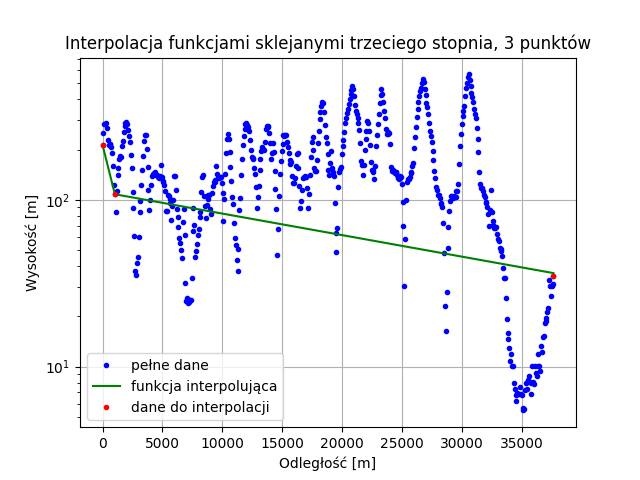
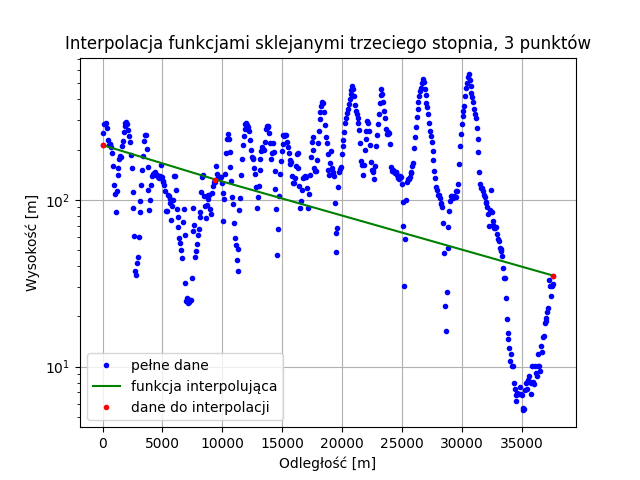
update methods

diff --git a/lagrange.py b/lagrange.py
@@ -4,9 +4,13 @@ import numpy as np
 
 
 def interpolation_function(points):
-    def f(x):
+    n = len(points)
+
+    def evaluate(x):
         result = 0
-        n = len(points)
+        first_x, last_x = points[0][0], points[-1][0]
+        if x < first_x or x > last_x:
+            return 0
         for i in range(n):
             xi, yi = points[i]
             base = 1
@@ -19,7 +23,7 @@ def interpolation_function(points):
             result += float(yi) * base
         return result
 
-    return f
+    return evaluate
 
 
 def interpolate_with_lagrange(points: int, path: str, save: bool = False, plot_function: bool = True, equal_separator: bool = True):
@@ -27,9 +31,10 @@ def interpolate_with_lagrange(points: int, path: str, save: bool = False, plot_f
         data = f.readlines()
     n = len(data)
     if equal_separator:
-        interpolation_indices = range(0, len(data), len(data) // points + 1)
+        interpolation_indices = [int(i * (n - 1) / (points - 1)) for i in range(points)]
     else:
-        interpolation_indices = [random.choice(range(1, n)) for _ in range(points)]
+        interpolation_indices = [random.choice(range(1, n - 1)) for _ in range(points - 2)]
+        interpolation_indices = [0] + sorted(interpolation_indices) + [n - 1]
     interpolation_data = [(float(data[i].split()[0]), float(data[i].split()[1])) for i in interpolation_indices]
 
     f = interpolation_function(interpolation_data)
@@ -43,18 +48,25 @@ def interpolate_with_lagrange(points: int, path: str, save: bool = False, plot_f
 
     true_height = np.array([float(y) for _, y in (line.split() for line in data)])
 
-    mse = np.mean((height - interpolated_height) ** 2)
+    # Obliczanie wysokości dla całego zakresu odległości
+    interpolated_distance = np.linspace(distance[0], distance[-1], num=1000)
+    interpolated_height = np.array([f(x) for x in interpolated_distance])
+
+    # Usuwanie punktów o zerowej wysokości z interpolowanych danych
+    mask = interpolated_height != 0
+    interpolated_distance = interpolated_distance[mask]
+    interpolated_height = interpolated_height[mask]
+
     filename = path.split('/')[-1].replace('.txt', '')
-    print(f"Lagrande {filename}-{points} MSE: {mse}")
     pyplot.semilogy(distance, height, 'b.', label='pełne dane')
     if plot_function:
-        pyplot.semilogy(distance, interpolated_height, color='green', label='funkcja interpolująca')
+        pyplot.semilogy(interpolated_distance, interpolated_height, color='green', label='funkcja interpolująca')
     pyplot.semilogy(train_distance, train_height, 'r.', label='dane do interpolacji')
 
     pyplot.legend()
     pyplot.ylabel('Wysokość [m]')
     pyplot.xlabel('Odległość [m]')
-    pyplot.title(f'Interpolacja Lagrange\'a dla {len(interpolation_data)} punktów\nMSE: {mse:.4f}')
+    pyplot.title(f'Interpolacja Lagrange\'a dla {len(interpolation_data)} punktów\n')
     pyplot.grid()
     if save:
         pyplot.savefig(f"charts/lagrange/{filename}-{points}-points.png")

diff --git a/spline.py b/spline.py
@@ -1,64 +1,33 @@
-import matplotlib.pyplot as plt
 import numpy as np
+import matplotlib.pyplot as plt
+from scipy.interpolate import interp1d
 
 
-def interpolate_with_spline(points, path, save=False, plot_function=True, equal_separator: bool = True):
+def interpolate_with_spline(points, path, save=False, plot_function=True, equal_separator=True):
     with open(path, 'r') as f:
         data = f.readlines()
 
     distance = np.array([float(x) for x, _ in (line.split() for line in data)])
     height = np.array([float(y) for _, y in (line.split() for line in data)])
 
-    n = len(distance)
-
-    h = np.diff(distance)
-
-    delta = np.diff(height)
-
-    matrix = np.zeros((n, n))
-    matrix[0, 0] = 1
-    matrix[n-1, n-1] = 1
-
-    for i in range(1, n-1):
-        matrix[i, i-1] = h[i-1]
-        matrix[i, i] = 2 * (h[i-1] + h[i])
-        matrix[i, i+1] = h[i]
-
-    vector = np.zeros(n)
-    vector[1:n-1] = 3 * (delta[1:] / h[1:] - delta[:-1] / h[:-1])
-
-    c = np.linalg.solve(matrix, vector)
-
-    a = height[:-1]
-    b = delta / h - h * c[:-1] / 3
-    d = (c[1:] - c[:-1]) / (3 * h)
-
     if equal_separator:
-        interp_indices = np.linspace(0, n-1, points, dtype=int)
+        interp_indices = np.linspace(0, len(distance) - 1, points, dtype=int)
     else:
-        interp_indices = np.sort(np.random.choice(range(1, n-1), points-2, replace=False))
-        interp_indices = np.concatenate(([0], interp_indices, [n-1]))
+        interp_indices = np.sort(np.random.choice(range(len(distance)), points-2, replace=False))
+        interp_indices = np.concatenate(([0], interp_indices, [len(distance)-1]))
 
     x_interp = distance[interp_indices]
-    y_interp = np.zeros_like(x_interp)
+    y_interp = height[interp_indices]
 
-    for i, x in enumerate(x_interp):
-        index = np.searchsorted(distance, x)
-        if index == 0:
-            index = 1
-        elif index == n:
-            index = n - 1
-
-        dx = x - distance[index-1]
-        y_interp[i] = a[index-1] + b[index-1] * dx + c[index-1] * dx**2 + d[index-1] * dx**3
+    f = interp1d(distance, height, kind='cubic')
+    y_smooth = f(x_interp)
 
     plt.semilogy(distance, height, 'b.', label='pełne dane')
     if plot_function:
-        plt.semilogy(x_interp, y_interp, color='green', label='funkcja interpolująca')
-
-    plt.semilogy(distance[interp_indices], height[interp_indices], 'r.', label='dane do interpolacji')
+        plt.semilogy(x_interp, y_smooth, color='green', label='funkcja interpolująca')
+    plt.semilogy(distance[interp_indices], y_interp, 'r.', label='dane do interpolacji')
     filename = path.split('/')[-1].replace('.txt', '')
-    mse = np.mean((y_interp - height[interp_indices]) ** 2)
+    mse = np.mean((y_smooth - y_interp) ** 2)
     print(f"Spline {filename}-{points} MSE: {mse}")
     plt.xlabel('Odległość [m]')
     plt.ylabel('Wysokość [m]')
